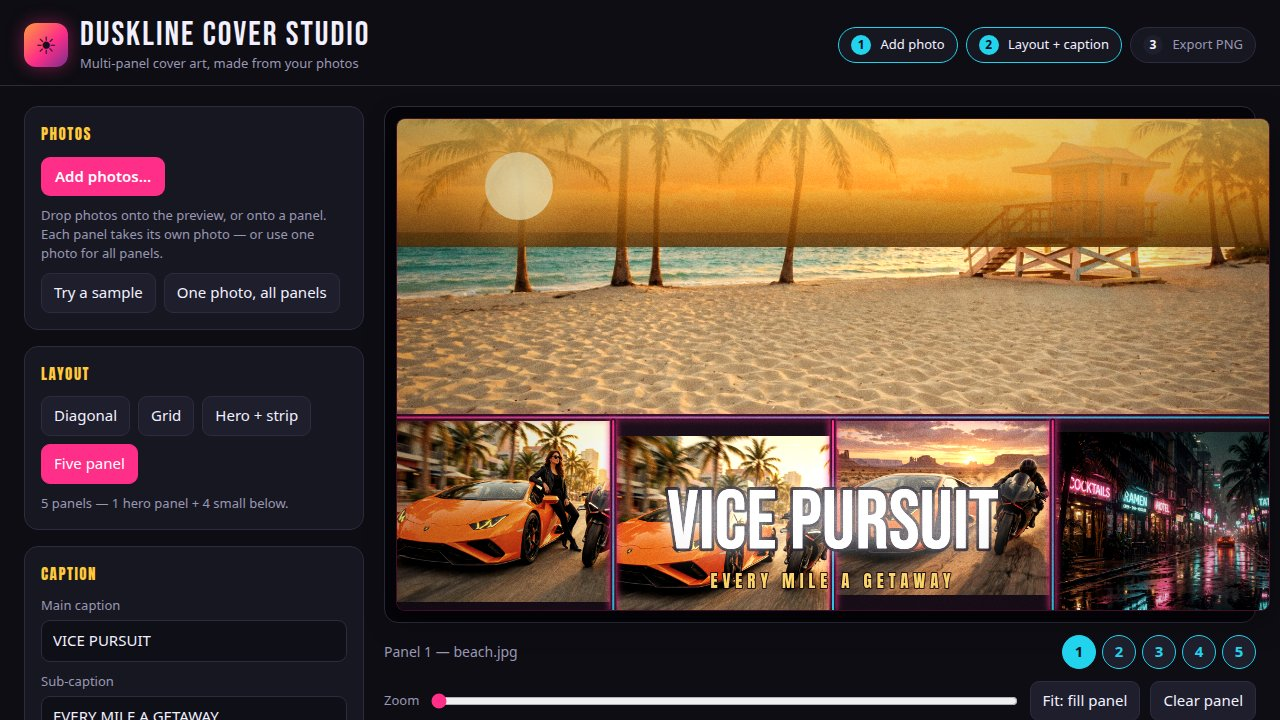
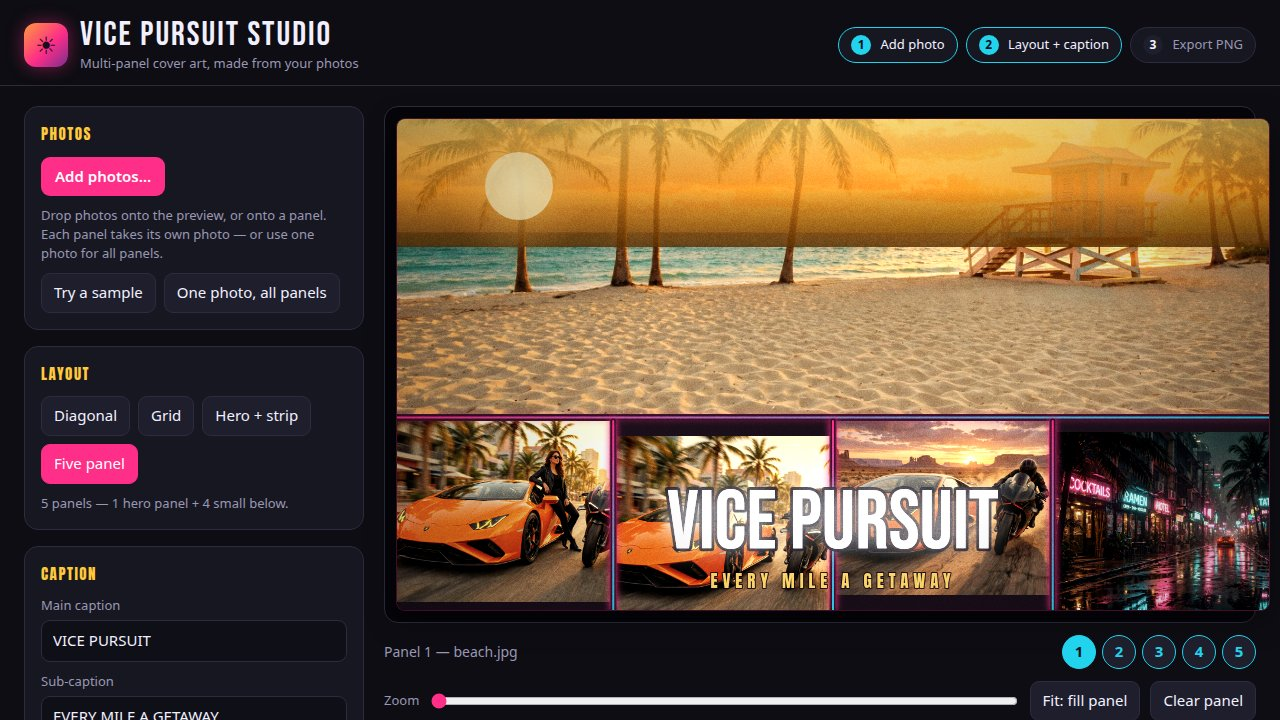
VICE PURSUIT STUDIO: rename editor header/title/footer (was Duskline)
Header fix only: h1, <title>, and footer now read VICE PURSUIT STUDIO
to match the cover titles. Screenshot 2-editor.jpg re-taken; no other
photos, layouts, grades, or files touched.

Changed region(s): [[0.0625, 0.0306, 0.3125, 0.0611]]

diff --git a/app/index.html b/app/index.html
@@ -3,7 +3,7 @@
 <head>
 <meta charset="utf-8">
 <meta name="viewport" content="width=device-width, initial-scale=1">
-<title>Duskline Cover Studio — GTA-style multi-panel cover maker</title>
+<title>VICE PURSUIT STUDIO — GTA-style multi-panel cover maker</title>
 <meta name="description" content="Turn your photos and a caption into a GTA-style multi-panel cover. Four layouts, four grades, full-resolution PNG export — all offline.">
 <link rel="stylesheet" href="style.css">
 </head>
@@ -13,7 +13,7 @@
     <div class="brand">
       <span class="brand-mark" aria-hidden="true">☀</span>
       <div>
-        <h1>Duskline Cover Studio</h1>
+        <h1>VICE PURSUIT STUDIO</h1>
         <p class="tagline">Multi-panel cover art, made from your photos</p>
       </div>
     </div>
@@ -123,7 +123,7 @@
   </main>
 
   <footer class="foot">
-    <p>Duskline Cover Studio — your photos stay on your device. No uploads, no accounts, no network. Fonts: Bebas Neue, Anton and Archivo Black (SIL Open Font License, shipped under app/fonts/).</p>
+    <p>VICE PURSUIT STUDIO — your photos stay on your device. No uploads, no accounts, no network. Fonts: Bebas Neue, Anton and Archivo Black (SIL Open Font License, shipped under app/fonts/).</p>
   </footer>
 </div>
 
